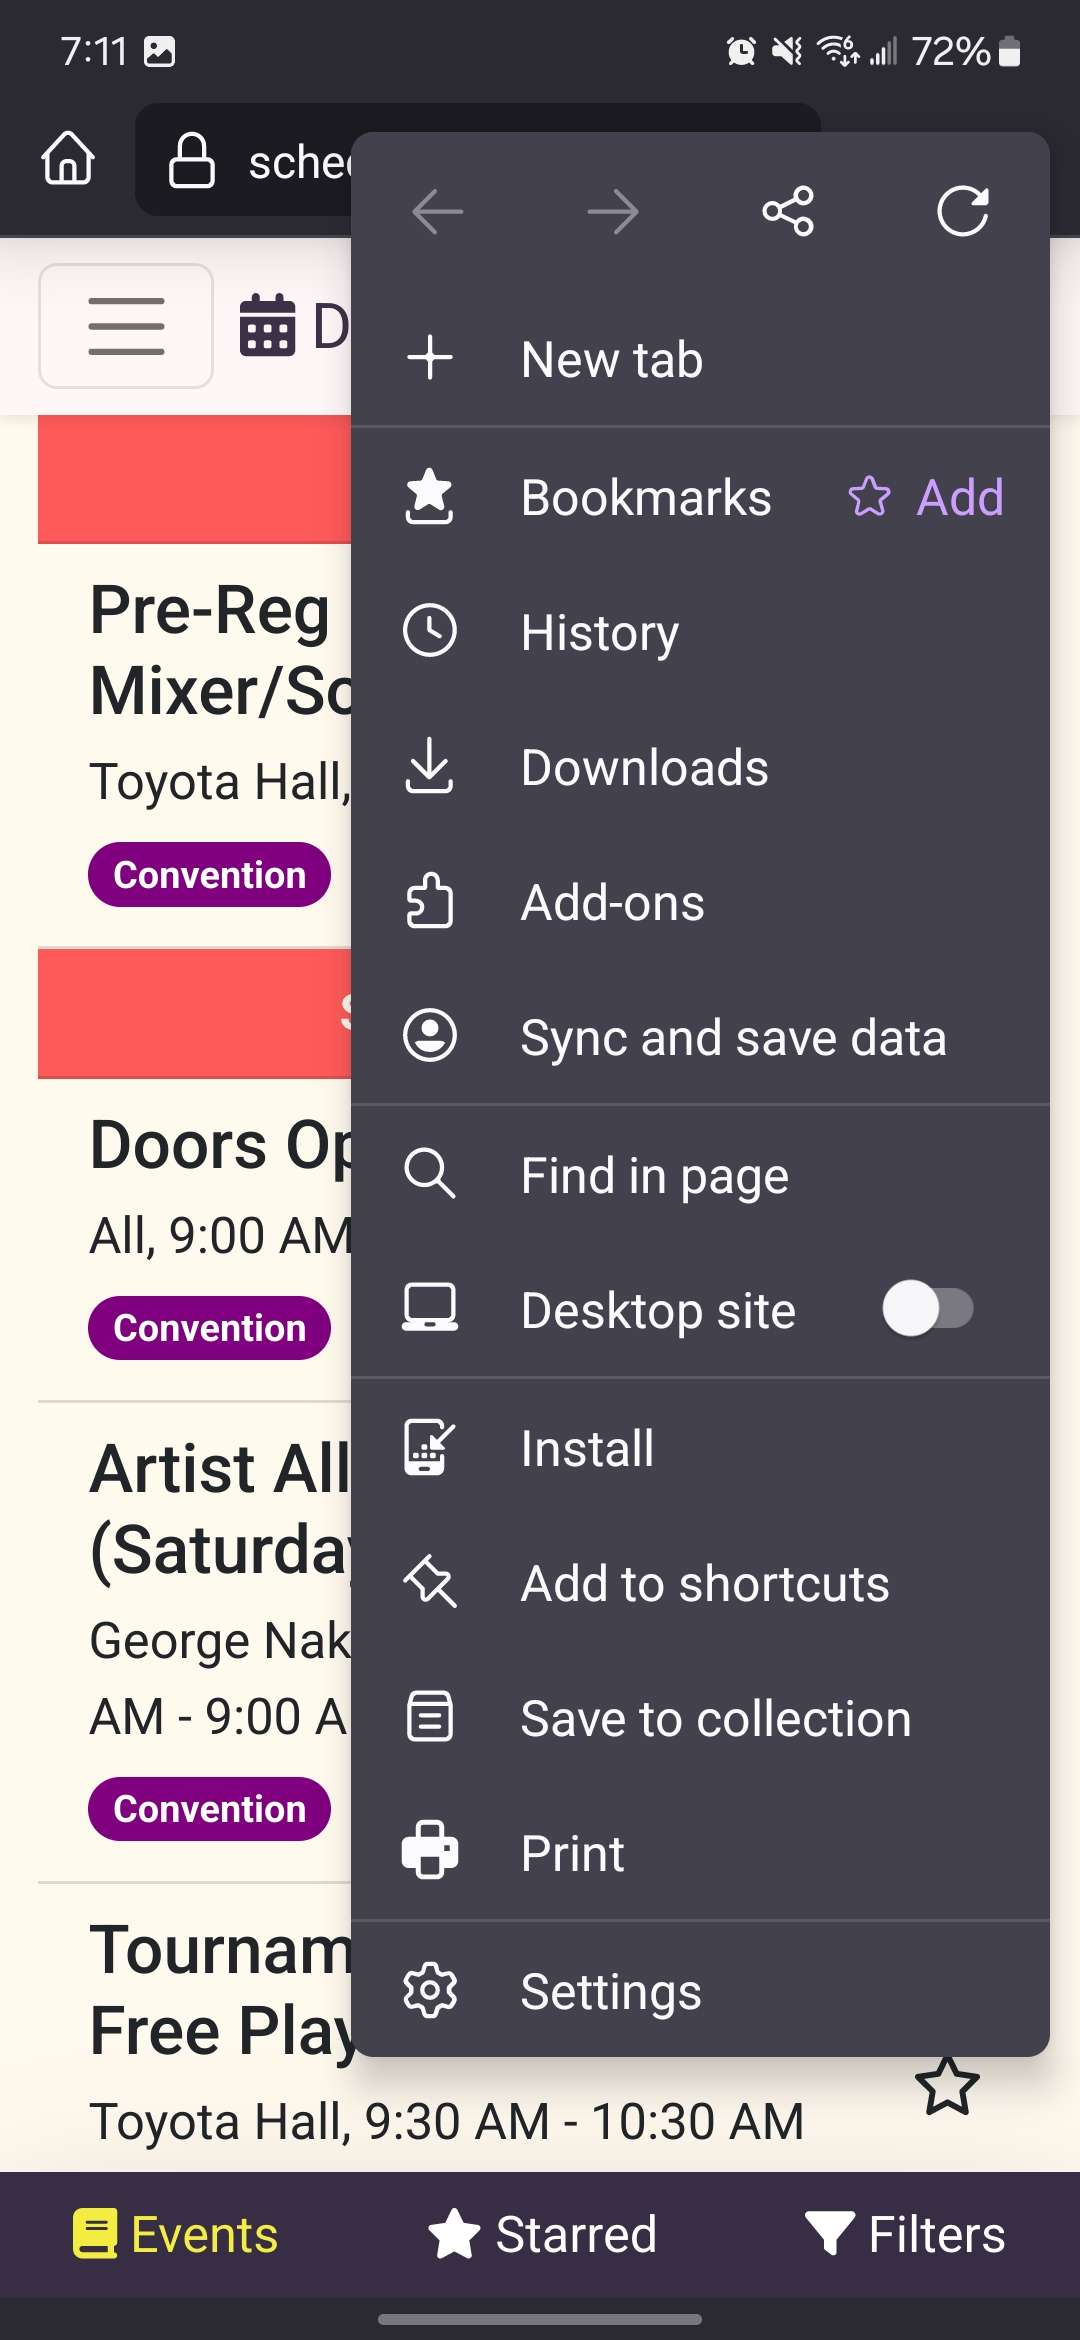
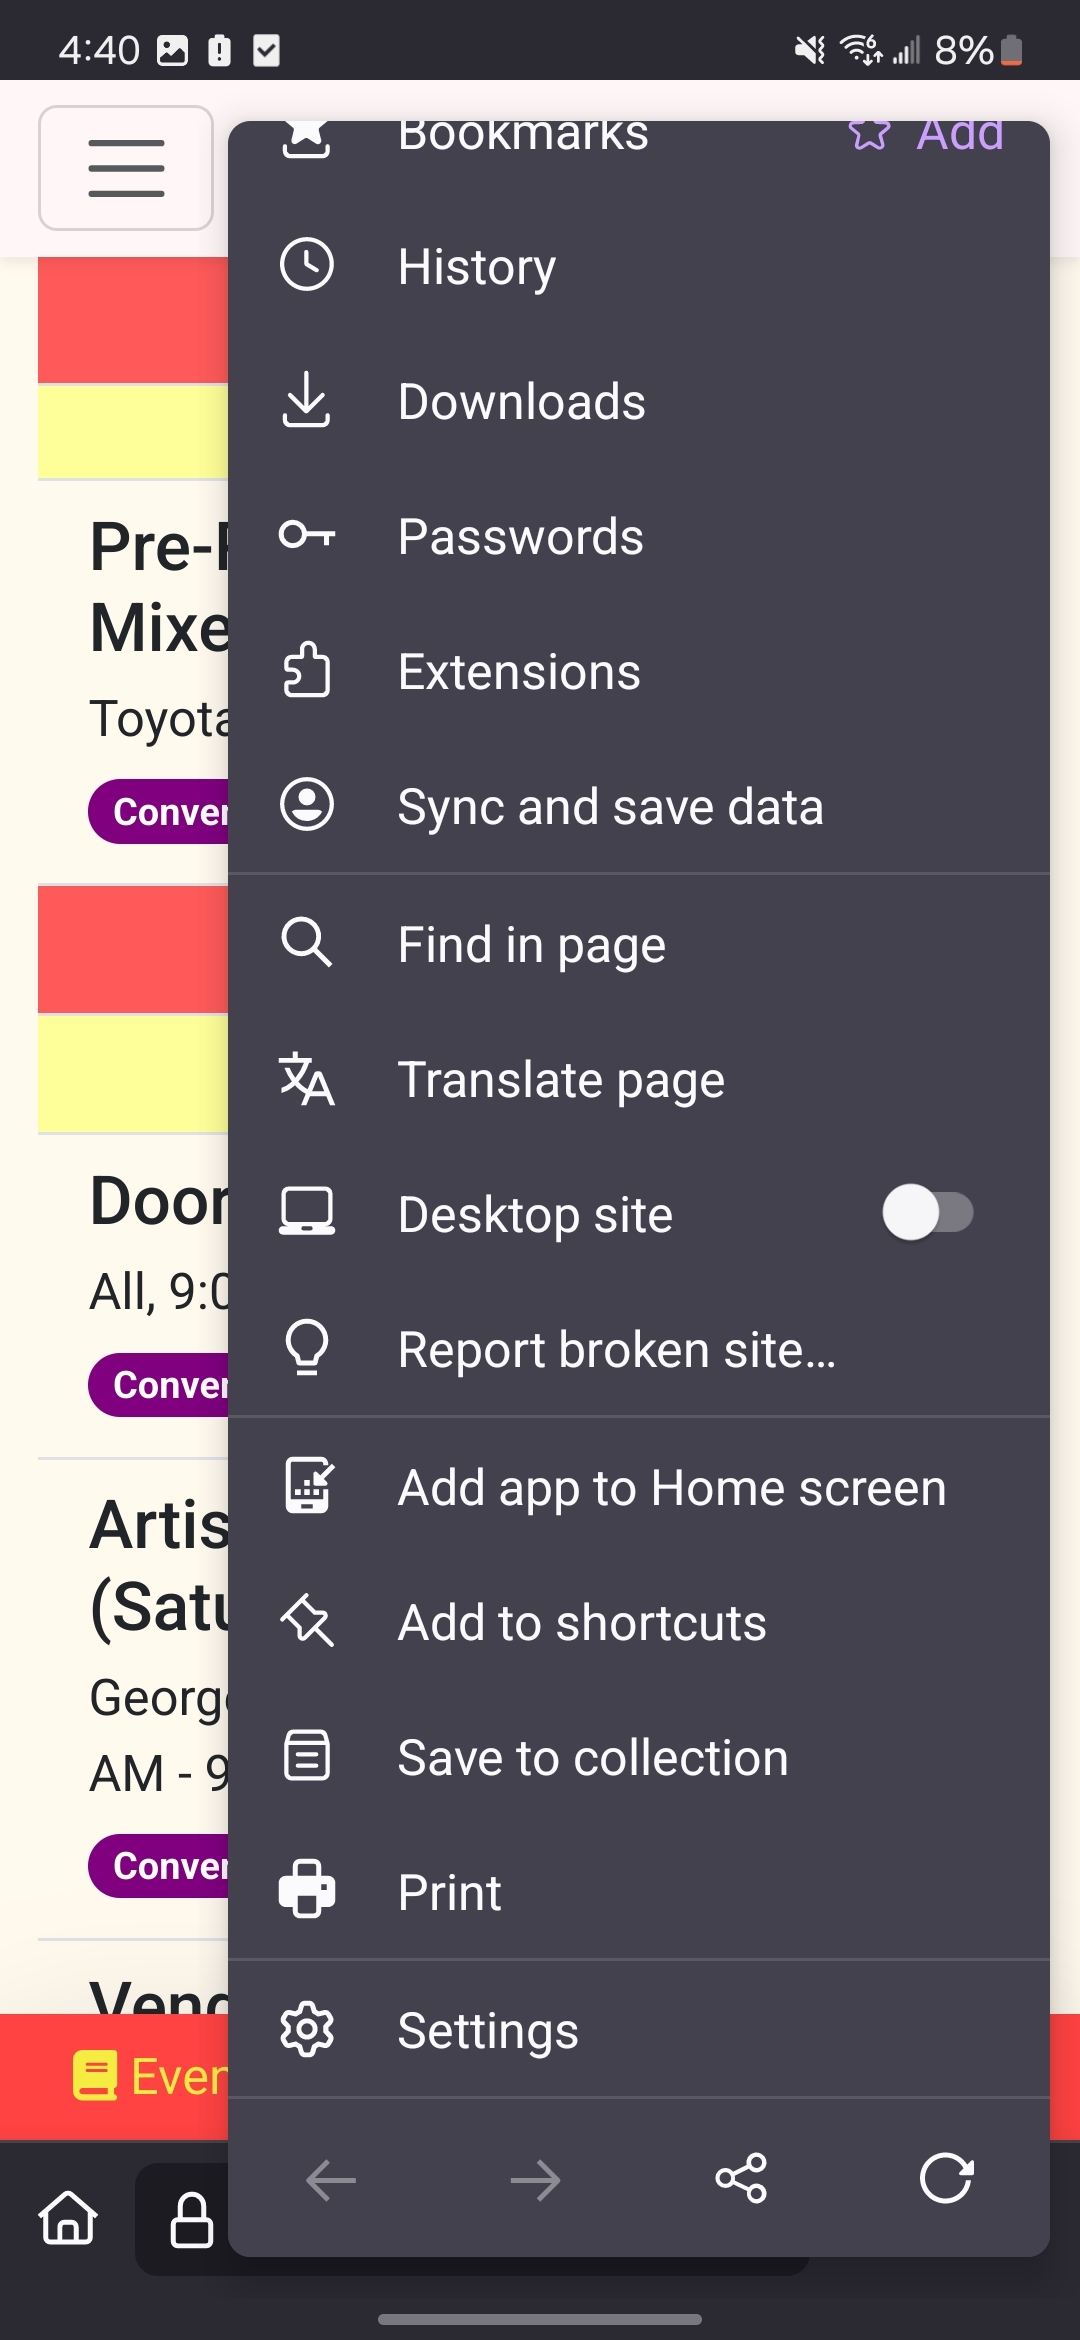
update pictures

diff --git a/src/menupages/Installation.tsx b/src/menupages/Installation.tsx
@@ -36,7 +36,7 @@ export const installationPage = {
             <ol>
               <li>Tap the <FontAwesomeIcon icon={faEllipsisVertical}/> button to bring up additional options; it should reside on the upper right portion of your window</li>
               <li>Tap the option named <b>Install app</b></li>
-              <li>The below prompt (or something similar) should appear. Tap the <b>Install</b> button</li>
+              <li>The below prompt (or something similar) should appear. Tap the <b>Add to Home screen</b> button</li>
               <li>At this point, the TouhouFest icon should appear on your phone's home screen. Tap it and it will open and function just like a regular app</li>
             </ol>
             <Row className="justify-content-center">
@@ -57,21 +57,21 @@ export const installationPage = {
           <Accordion.Body>
             <ol>
               <li>Tap the <FontAwesomeIcon icon={faEllipsisVertical}/> button to bring up additional options; it should reside on the upper right portion of your window</li>
-              <li>Tap the option named <b>Install</b></li>
+              <li>Tap the option named <b>Add app to Home screen</b></li>
               <li>The below prompt (or something similar) should appear. Tap the <b>Add</b> button</li>
               <li>At this point, the TouhouFest icon should appear on your phone's home screen. Tap it and it will open and function just like a regular app</li>
-              <Row className="justify-content-center">
-                <Col xs={12} md={6} lg={3}>
-                  <Image src={androidfirefox01} rounded fluid className="my-2"/>
-                </Col>
-                <Col xs={12} md={6} lg={3}>
-                  <Image src={androidfirefox02} rounded fluid className="my-2"/>
-                </Col>
-                <Col xs={12} md={6} lg={3}>
-                  <Image src={androidfirefox03} rounded fluid className="my-2"/>
-                </Col>
-              </Row>
             </ol>
+            <Row className="justify-content-center">
+              <Col xs={12} md={4} lg={3}>
+                <Image src={androidfirefox01} rounded fluid className="my-2"/>
+              </Col>
+              <Col xs={12} md={4} lg={3}>
+                <Image src={androidfirefox02} rounded fluid className="my-2"/>
+              </Col>
+              <Col xs={12} md={4} lg={3}>
+                <Image src={androidfirefox03} rounded fluid className="my-2"/>
+              </Col>
+            </Row>
           </Accordion.Body>
         </Accordion.Item>
       </Accordion>
